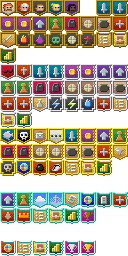
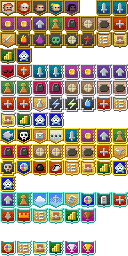
ReInc 0.4: restored badge sprites

diff --git a/core/src/main/java/com/shatteredpixel/shatteredpixeldungeon/Badges.java b/core/src/main/java/com/shatteredpixel/shatteredpixeldungeon/Badges.java
@@ -95,7 +95,7 @@ public class Badges {
 		RESEARCHER_1                ( 22, BadgeType.JOURNAL ),
 		GAMES_PLAYED_1              ( 23, BadgeType.GLOBAL ),
 		HIGH_SCORE_1                ( 24 ),
-		ATTUNEMENT_ATTAINED_1       ( 23 ),
+		ATTUNEMENT_ATTAINED_1       ( 25 ),
 
 		//silver
 		NO_MONSTERS_SLAIN           ( 32 ),
